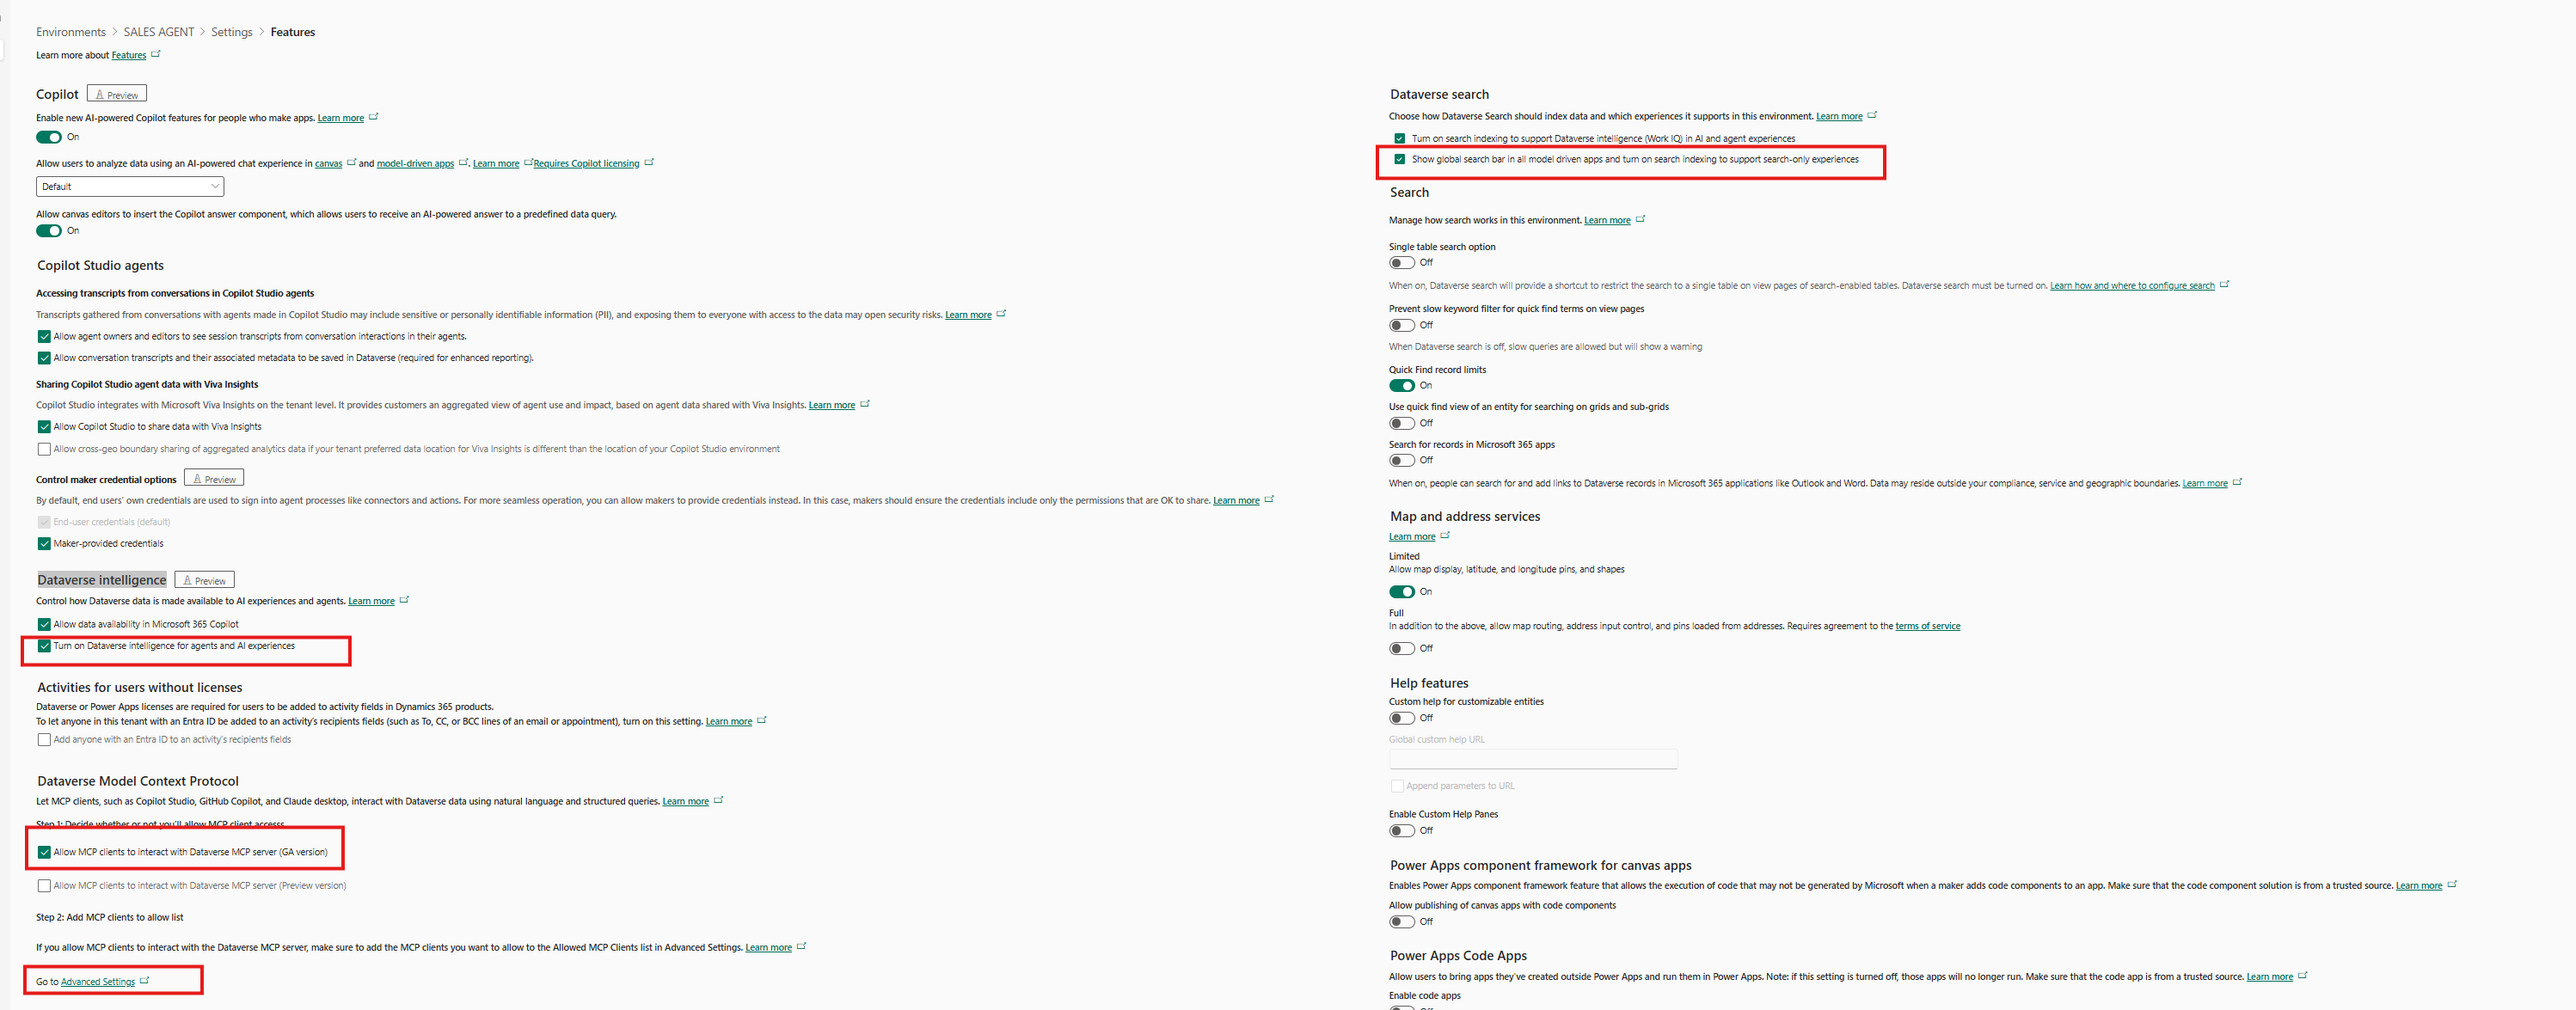
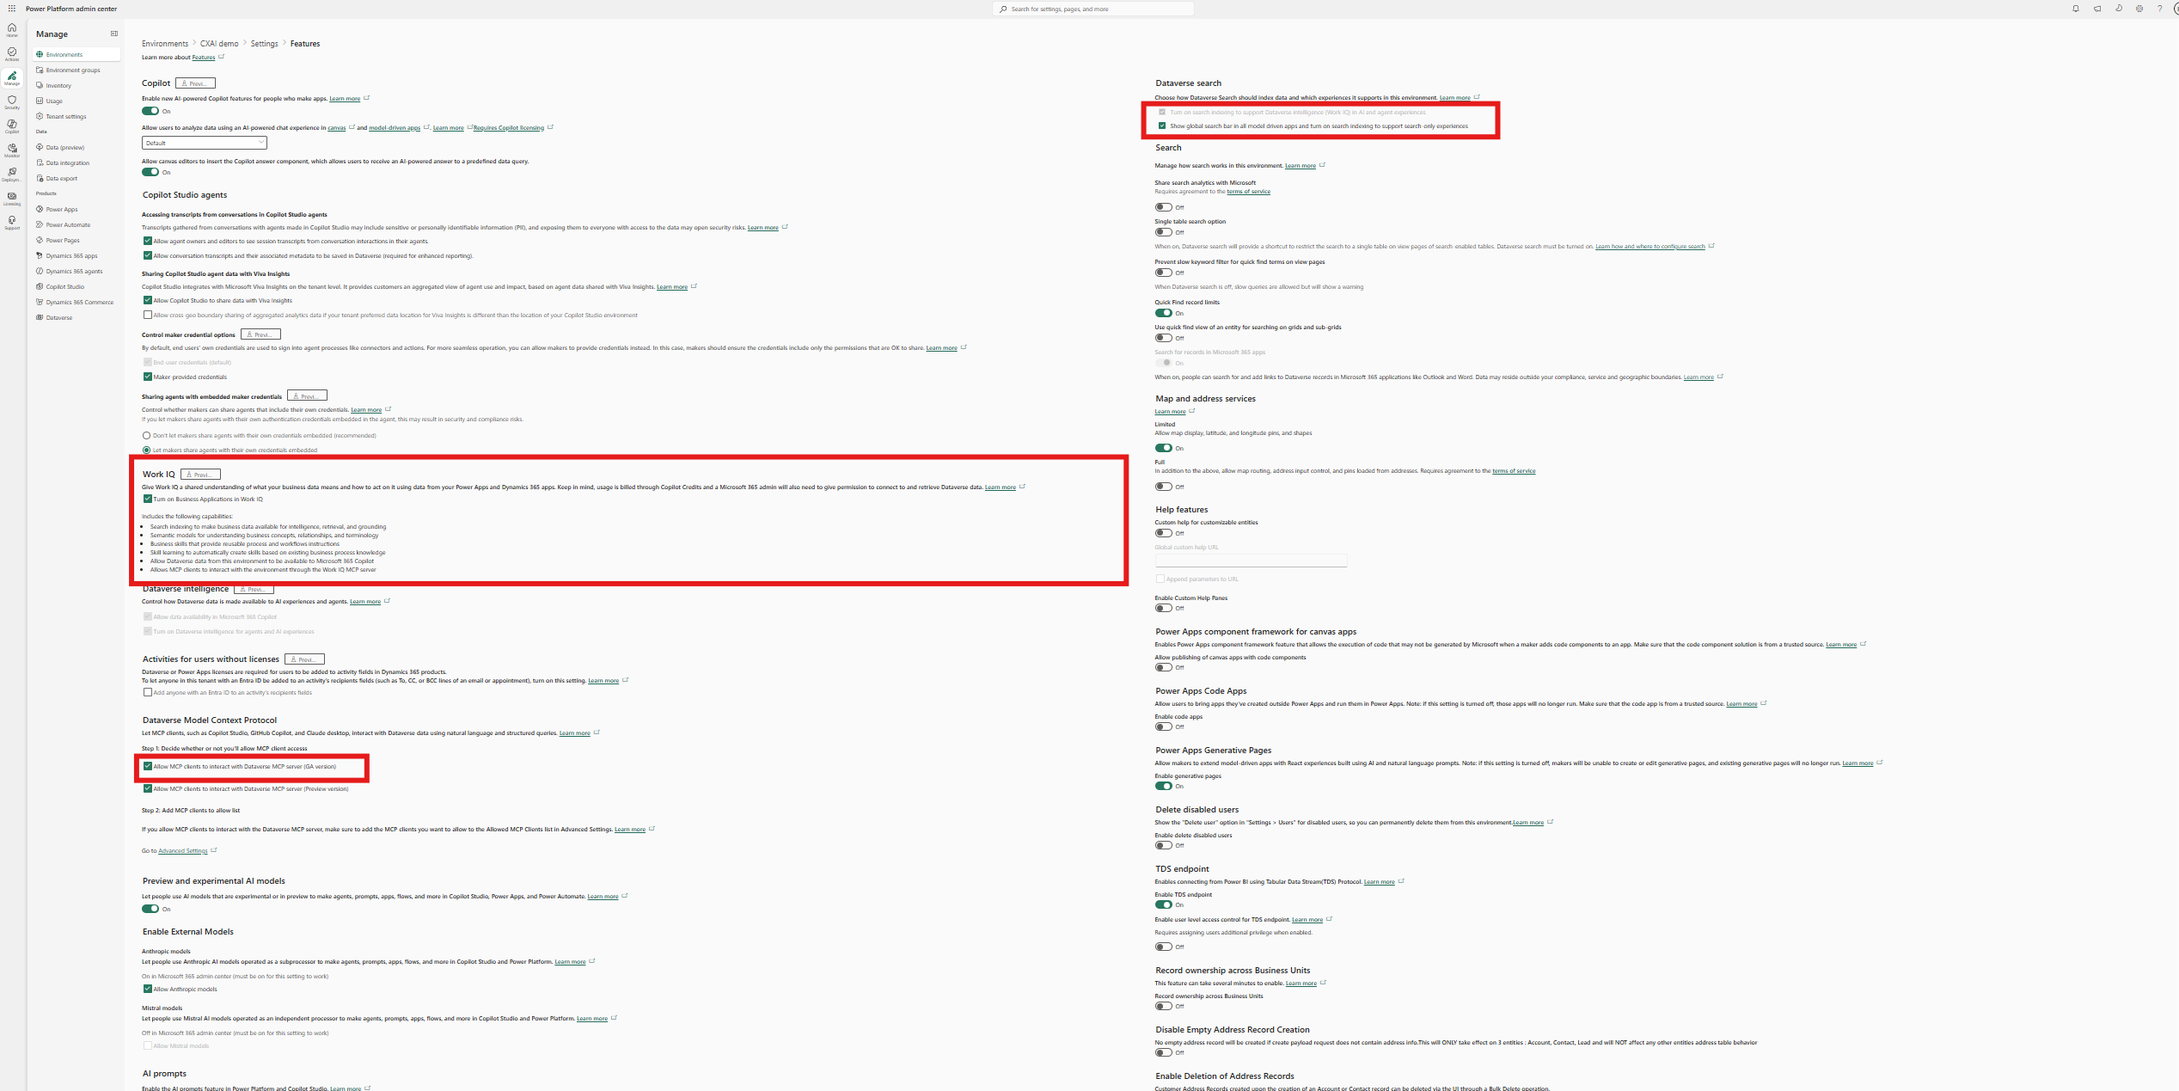
Business skills update (#598)
* update

* Update business-skills-salesforce.md

* update

* add lightbox

* update

* update

diff --git a/articles/business-skills-dataverse.md b/articles/business-skills-dataverse.md
@@ -1,11 +1,12 @@
 ---
 title: Enable business skills in Dataverse for Sales agent (preview)
 description: Learn how to enable business skills in Dataverse, make them available to Sales agent, and verify the connection.
-ms.date: 10/05/2026
+ms.date: 10/19/2026
 ms.topic: how-to
 ms.service: microsoft-365-copilot-sales
 author: sbmjais
 ms.author: shjais
+ai-usage: ai-assisted
 ---
 
 # Enable business skills in Dataverse for Sales agent (preview)
@@ -39,11 +40,11 @@ Enable the required features in the environment where you want Sales agent to us
 
 	:::image type="content" source="media/biz-skill-feature.png" alt-text="Screenshot of the environment Settings page with Product expanded and Features highlighted.":::
 
-1. In the **Dataverse intelligence** section, select **Turn on Dataverse intelligence for agents and AI experiences**. This action enables business skills for the environment and allows agents to use them.
-1. In the **Dataverse search** section, ensure that **Show global search bar in all model-driven apps** and search indexing are selected. This action ensures skills and data are discoverable by agents. 
+1. In the **Work IQ** section, select **Turn on Business Applications in Work IQ**. This action enables business skills for the environment and allows agents to use them. For more information about Work IQ, see [Business Applications in Work IQ administration](/power-platform/admin/business-applications-work-iq/?toc=/power-platform/business-applications-work-iq/toc.json&bc=/power-platform/breadcrumb/TOC.json).
+1. In the **Dataverse search** section, verify that **Show global search bar in all model-driven apps** and search indexing are selected. These settings are selected by default and ensure that agents can discover skills and data.
 1. In the **Dataverse Model Context Protocol** section, select **Allow MCP clients to interact with Dataverse MCP server (GA version)**.
 
-	:::image type="content" source="media/biz-skill-features-page.png" alt-text="Screenshot of the Features page showing the Dataverse intelligence, Dataverse search, and Dataverse Model Context Protocol settings.":::
+	:::image type="content" source="media/biz-skill-features-page.png" alt-text="Screenshot of the Features page showing the WorkIQ, Dataverse search, and Dataverse Model Context Protocol settings." lightbox="media/biz-skill-features-page.png":::
 
 1. In the **Dataverse Model Context Protocol** section, select **Go to Advanced Settings**.
 1. In the **Active Allowed MCP Clients** list, find **Enterprise Copilot Platform** and verify that **Is Enabled** is set to **Yes**. Its unique name is `enterprisecopilotplatform`. Sales agent uses this client to access the Dataverse MCP server. 
@@ -82,7 +83,7 @@ In the [Power Platform admin center](https://admin.powerplatform.microsoft.com/)
 
 |Scope|Action|
 |---|---|
-|Disable Dataverse intelligence for the environment|On the environment's **Features** page, clear **Turn on Dataverse intelligence for agents and AI experiences**. This change prevents agents from using Dataverse business skills in the environment.|
+|Disable WorkIQ for the environment|On the environment's **Features** page, turn off the **WorkIQ** setting. This change prevents agents from using Dataverse business skills in the environment.|
 |Block MCP access for Sales agent|In **Advanced Settings** > **Allowed MCP Clients**, open **Enterprise Copilot Platform**, set **Is Enabled** to **No**, and then select **Save & Close**. You can also remove the client from the allow list.|
 |Block all MCP clients|On the environment's **Features** page, clear **Allow MCP clients to interact with Dataverse MCP server (GA version)**.|
 |Remove one skill|Deactivate or delete the business skill. For instructions, see [Manage business skills](/power-apps/maker/data-platform/data-platform-business-skills#manage-business-skills).|
@@ -92,7 +93,6 @@ In the [Power Platform admin center](https://admin.powerplatform.microsoft.com/)
 
 ## Related information
 
-- [Dataverse intelligence](/power-apps/maker/data-platform/data-platform-intelligence)
 - [Business skills in Microsoft Dataverse](/power-apps/maker/data-platform/data-platform-business-skills)
 - [Allow or disable MCP clients](/power-apps/maker/data-platform/data-platform-mcp-disable)
 - [Manage business skills](/power-apps/maker/data-platform/data-platform-business-skills#manage-business-skills)

diff --git a/articles/business-skills-salesforce.md b/articles/business-skills-salesforce.md
@@ -1,7 +1,7 @@
 ---
 title: Enable business skills for Salesforce in the Sales agent (preview)
 description: Learn how to enable business skills for Salesforce in the Sales agent, make them available to Salesforce users, and verify the connection.
-ms.date: 10/05/2026
+ms.date: 10/19/2026
 ms.topic: how-to
 ms.service: microsoft-365-copilot-sales
 author: sbmjais
@@ -52,11 +52,11 @@ Enable Dataverse intelligence and MCP access in the `msdyn_viva` environment.
 
 	:::image type="content" source="media/biz-skill-feature.png" alt-text="Screenshot of the environment Settings page with Product expanded and Features highlighted.":::
 
-1. In the **Dataverse intelligence** section, select **Turn on Dataverse intelligence for agents and AI experiences**. This action enables business skills for the environment and allows agents to use them.
-1. In the **Dataverse search** section, ensure that **Show global search bar in all model-driven apps** and search indexing are selected. This action ensures skills and data are discoverable by agents. 
+1. In the **Work IQ** section, select **Turn on Business Applications in Work IQ**. This action enables business skills for the environment and allows agents to use them. For more information about Work IQ, see [Business Applications in Work IQ administration](/power-platform/admin/business-applications-work-iq/?toc=/power-platform/business-applications-work-iq/toc.json&bc=/power-platform/breadcrumb/TOC.json).
+1. In the **Dataverse search** section, verify that **Show global search bar in all model-driven apps** and search indexing are selected. These settings are selected by default and ensure that agents can discover skills and data. 
 1. In the **Dataverse Model Context Protocol** section, select **Allow MCP clients to interact with Dataverse MCP server (GA version)**.
 
-	:::image type="content" source="media/biz-skill-features-page.png" alt-text="Screenshot of the Features page showing the Dataverse intelligence, Dataverse search, and Dataverse Model Context Protocol settings.":::
+	:::image type="content" source="media/biz-skill-features-page.png" alt-text="Screenshot of the Features page showing the Dataverse intelligence, Dataverse search, and Dataverse Model Context Protocol settings." lightbox="media/biz-skill-features-page.png":::
 
 1. In the **Dataverse Model Context Protocol** section, select **Go to Advanced Settings**.
 1. In the **Active Allowed MCP Clients** list, find **Enterprise Copilot Platform** and verify that **Is Enabled** is set to **Yes**. Sales agent uses this client to access the Dataverse MCP server.
